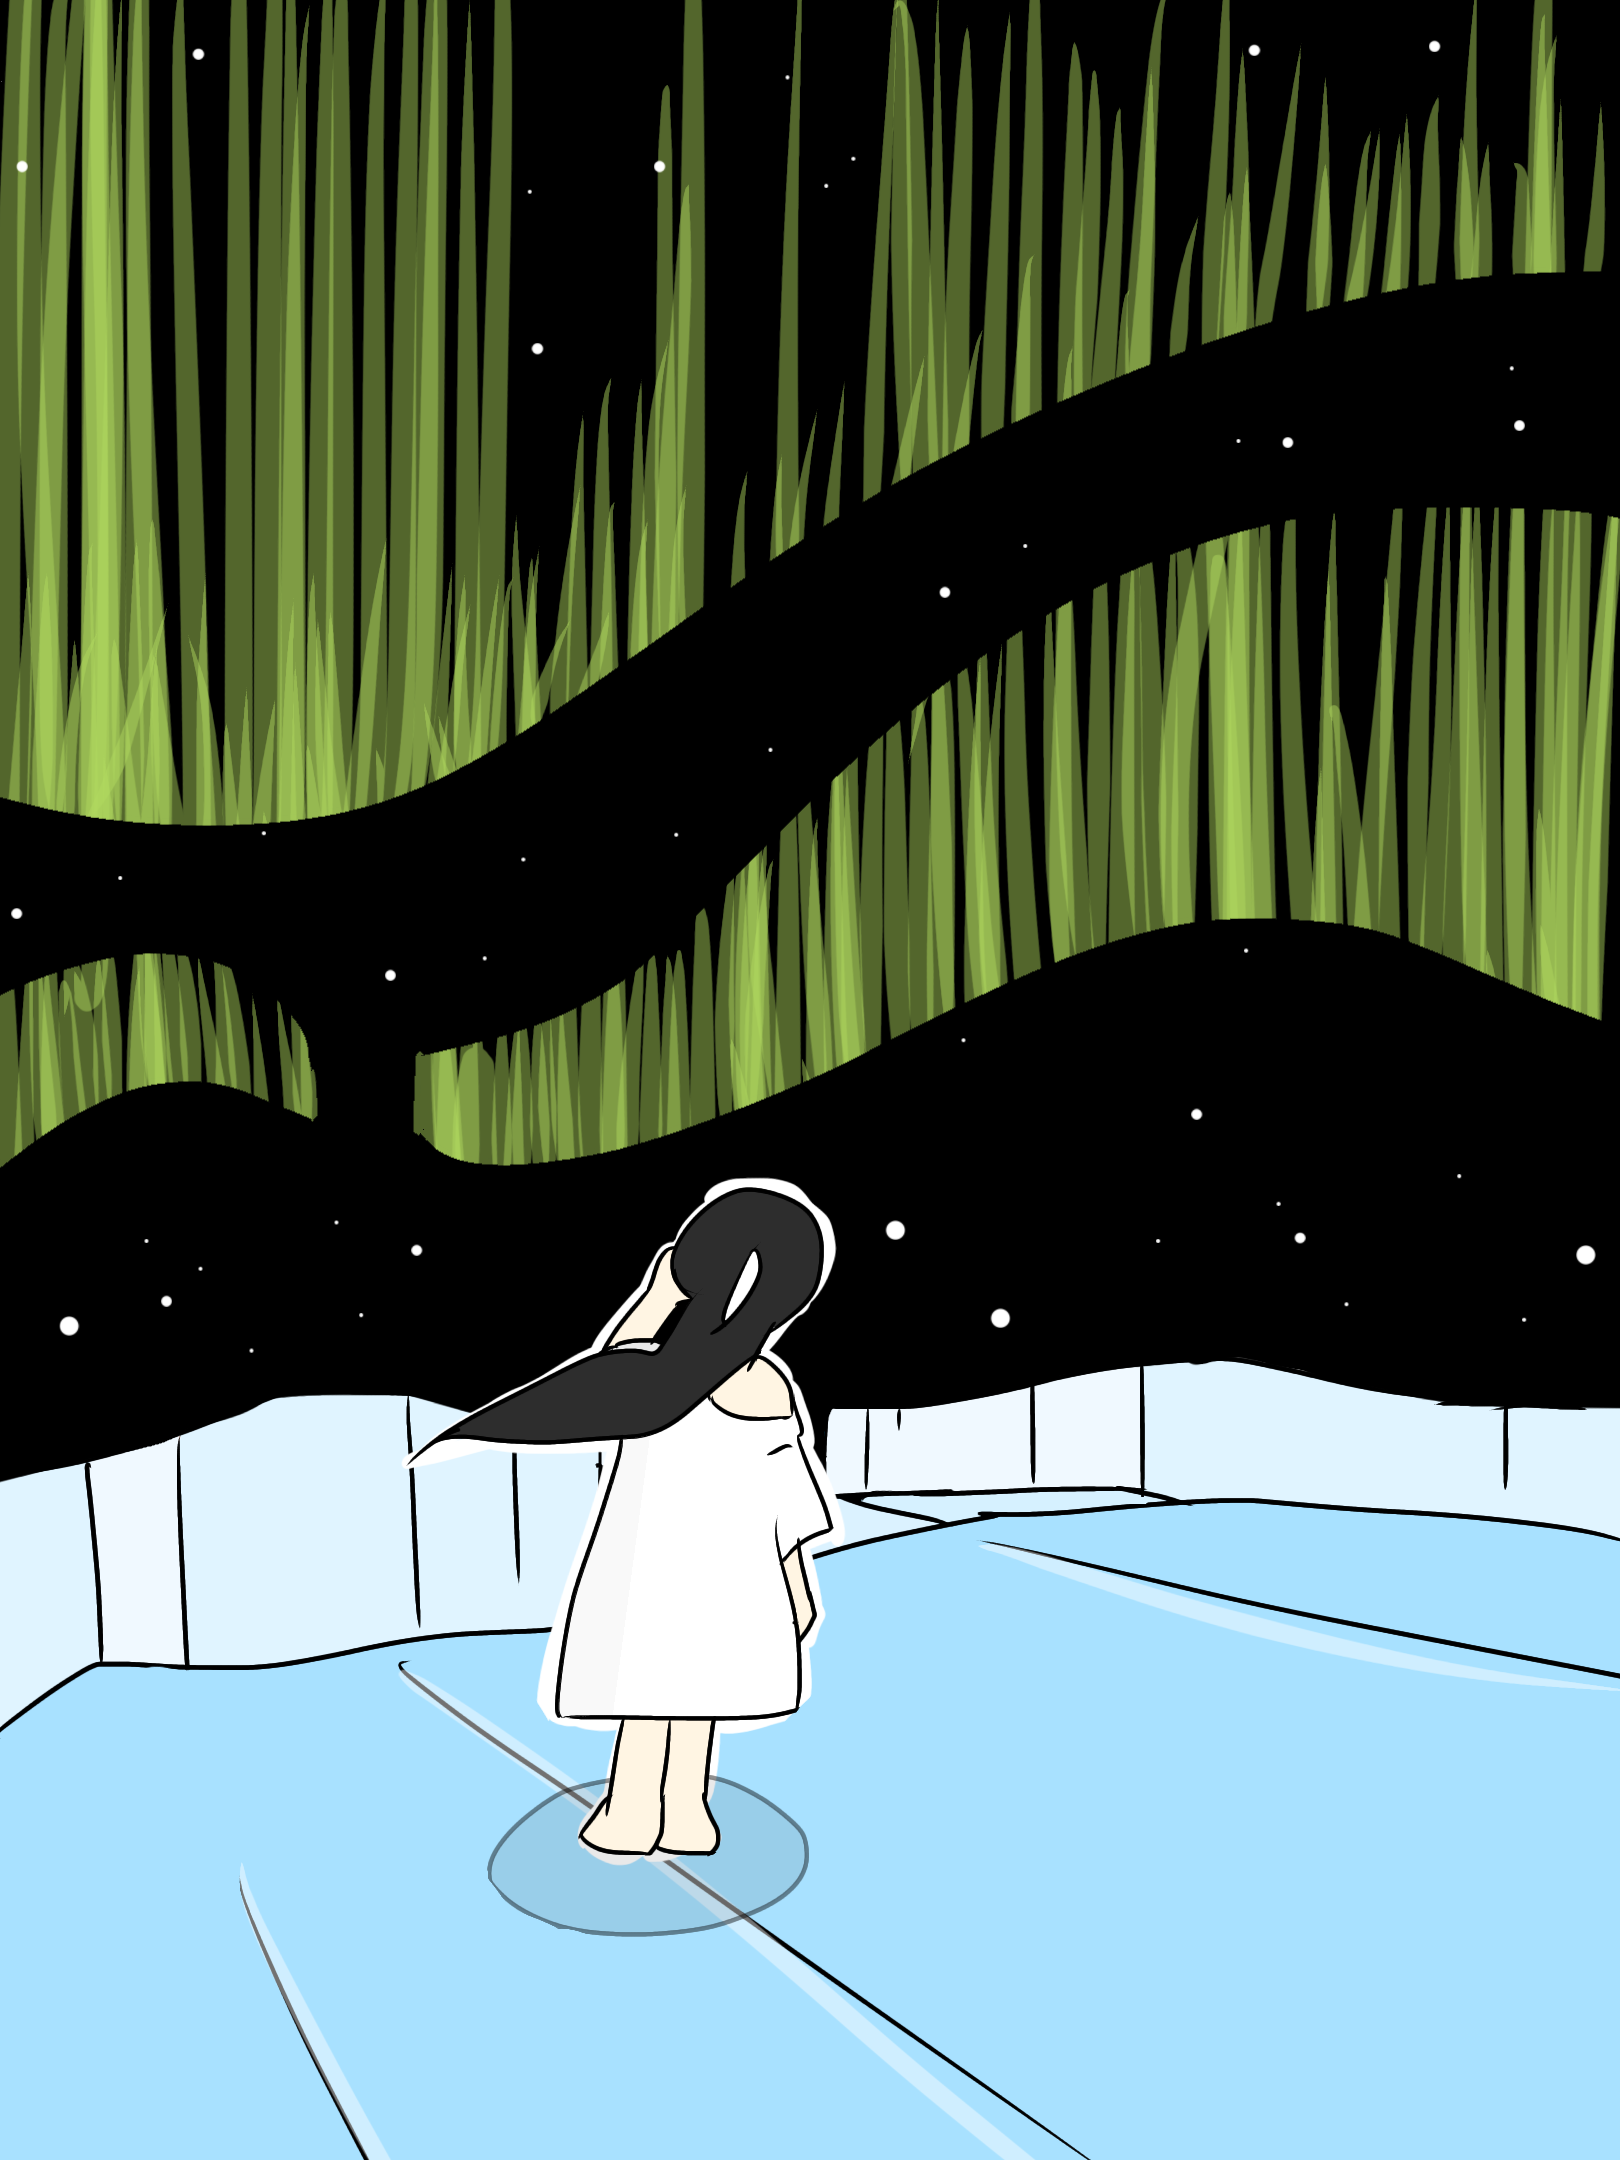
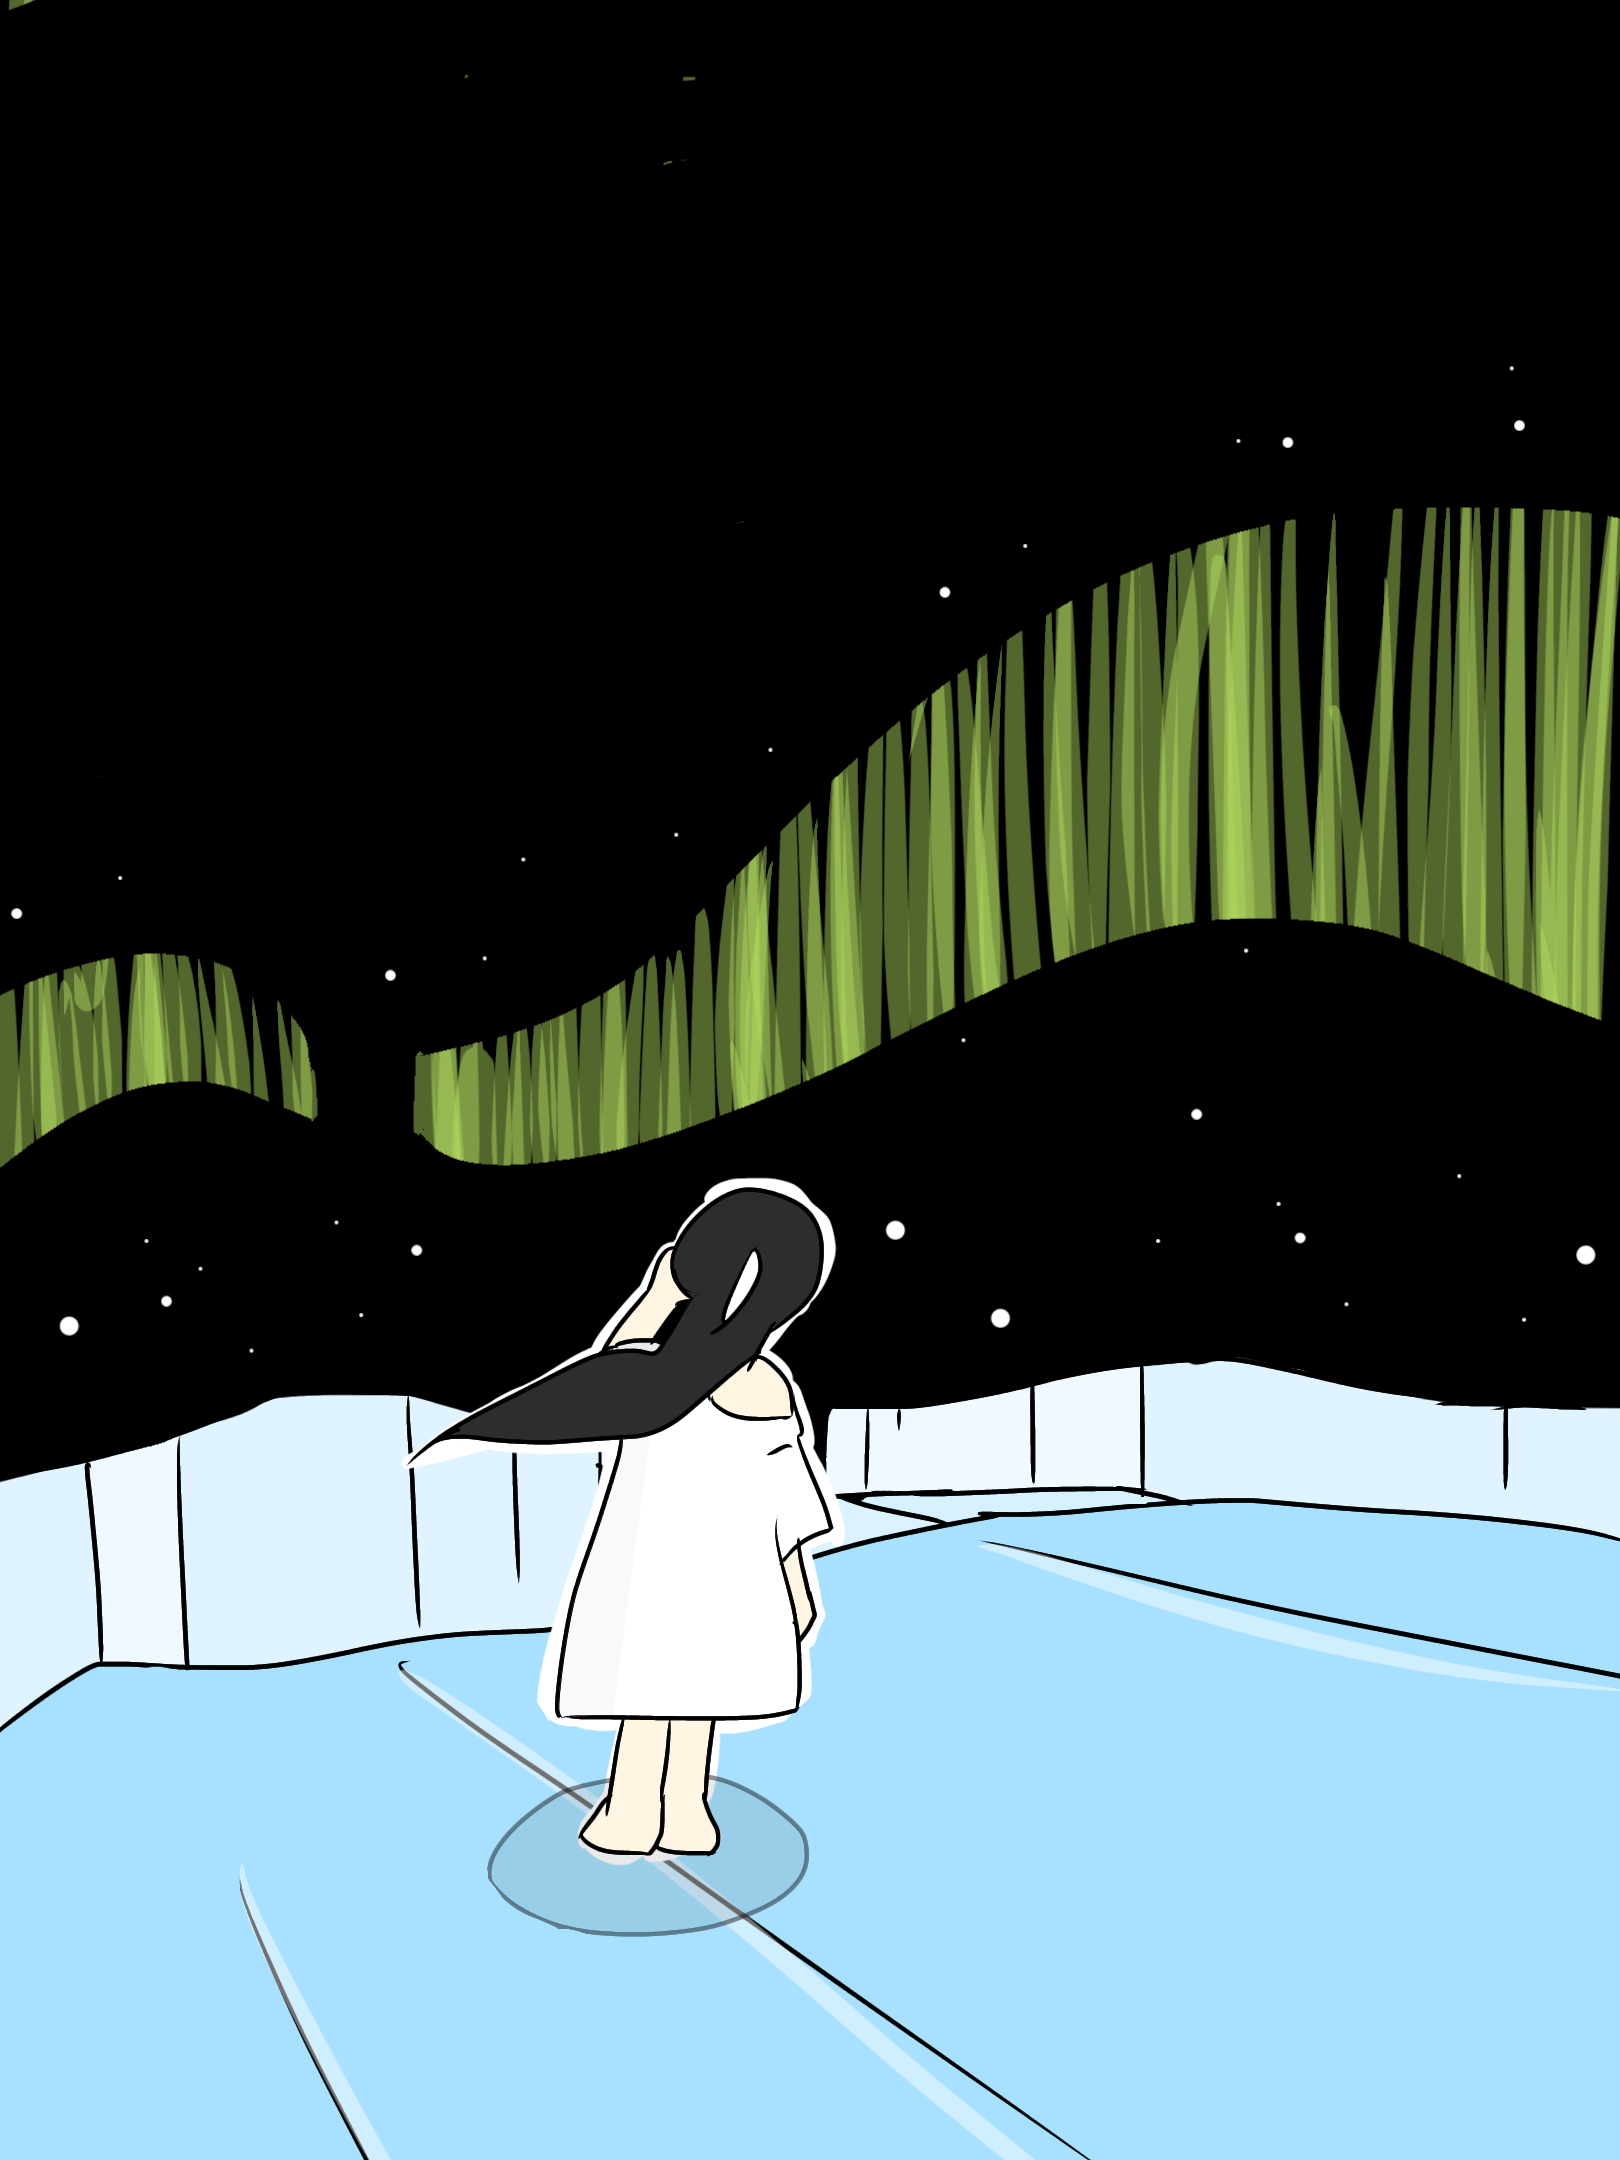
fix

Changed region(s): [[0.0, 0.0, 1.0, 0.4032]]

diff --git a/content/blog/2020-11-30-illust.md b/content/blog/2020-11-30-illust.md
@@ -1,0 +1,15 @@
++++
+date = "2020-11-30"
+tags = ["illust"]
+title = "イラストを描いてみた50,51"
+slug = "illust"
++++
+
+新しいやつ描いてたのと、過去絵も納得いかないやつ修正とかしてた。
+
+![](/img/yui_50.png)
+
+![](/img/yui_51.png)
+
+[/imgall](/imgall/)
+
